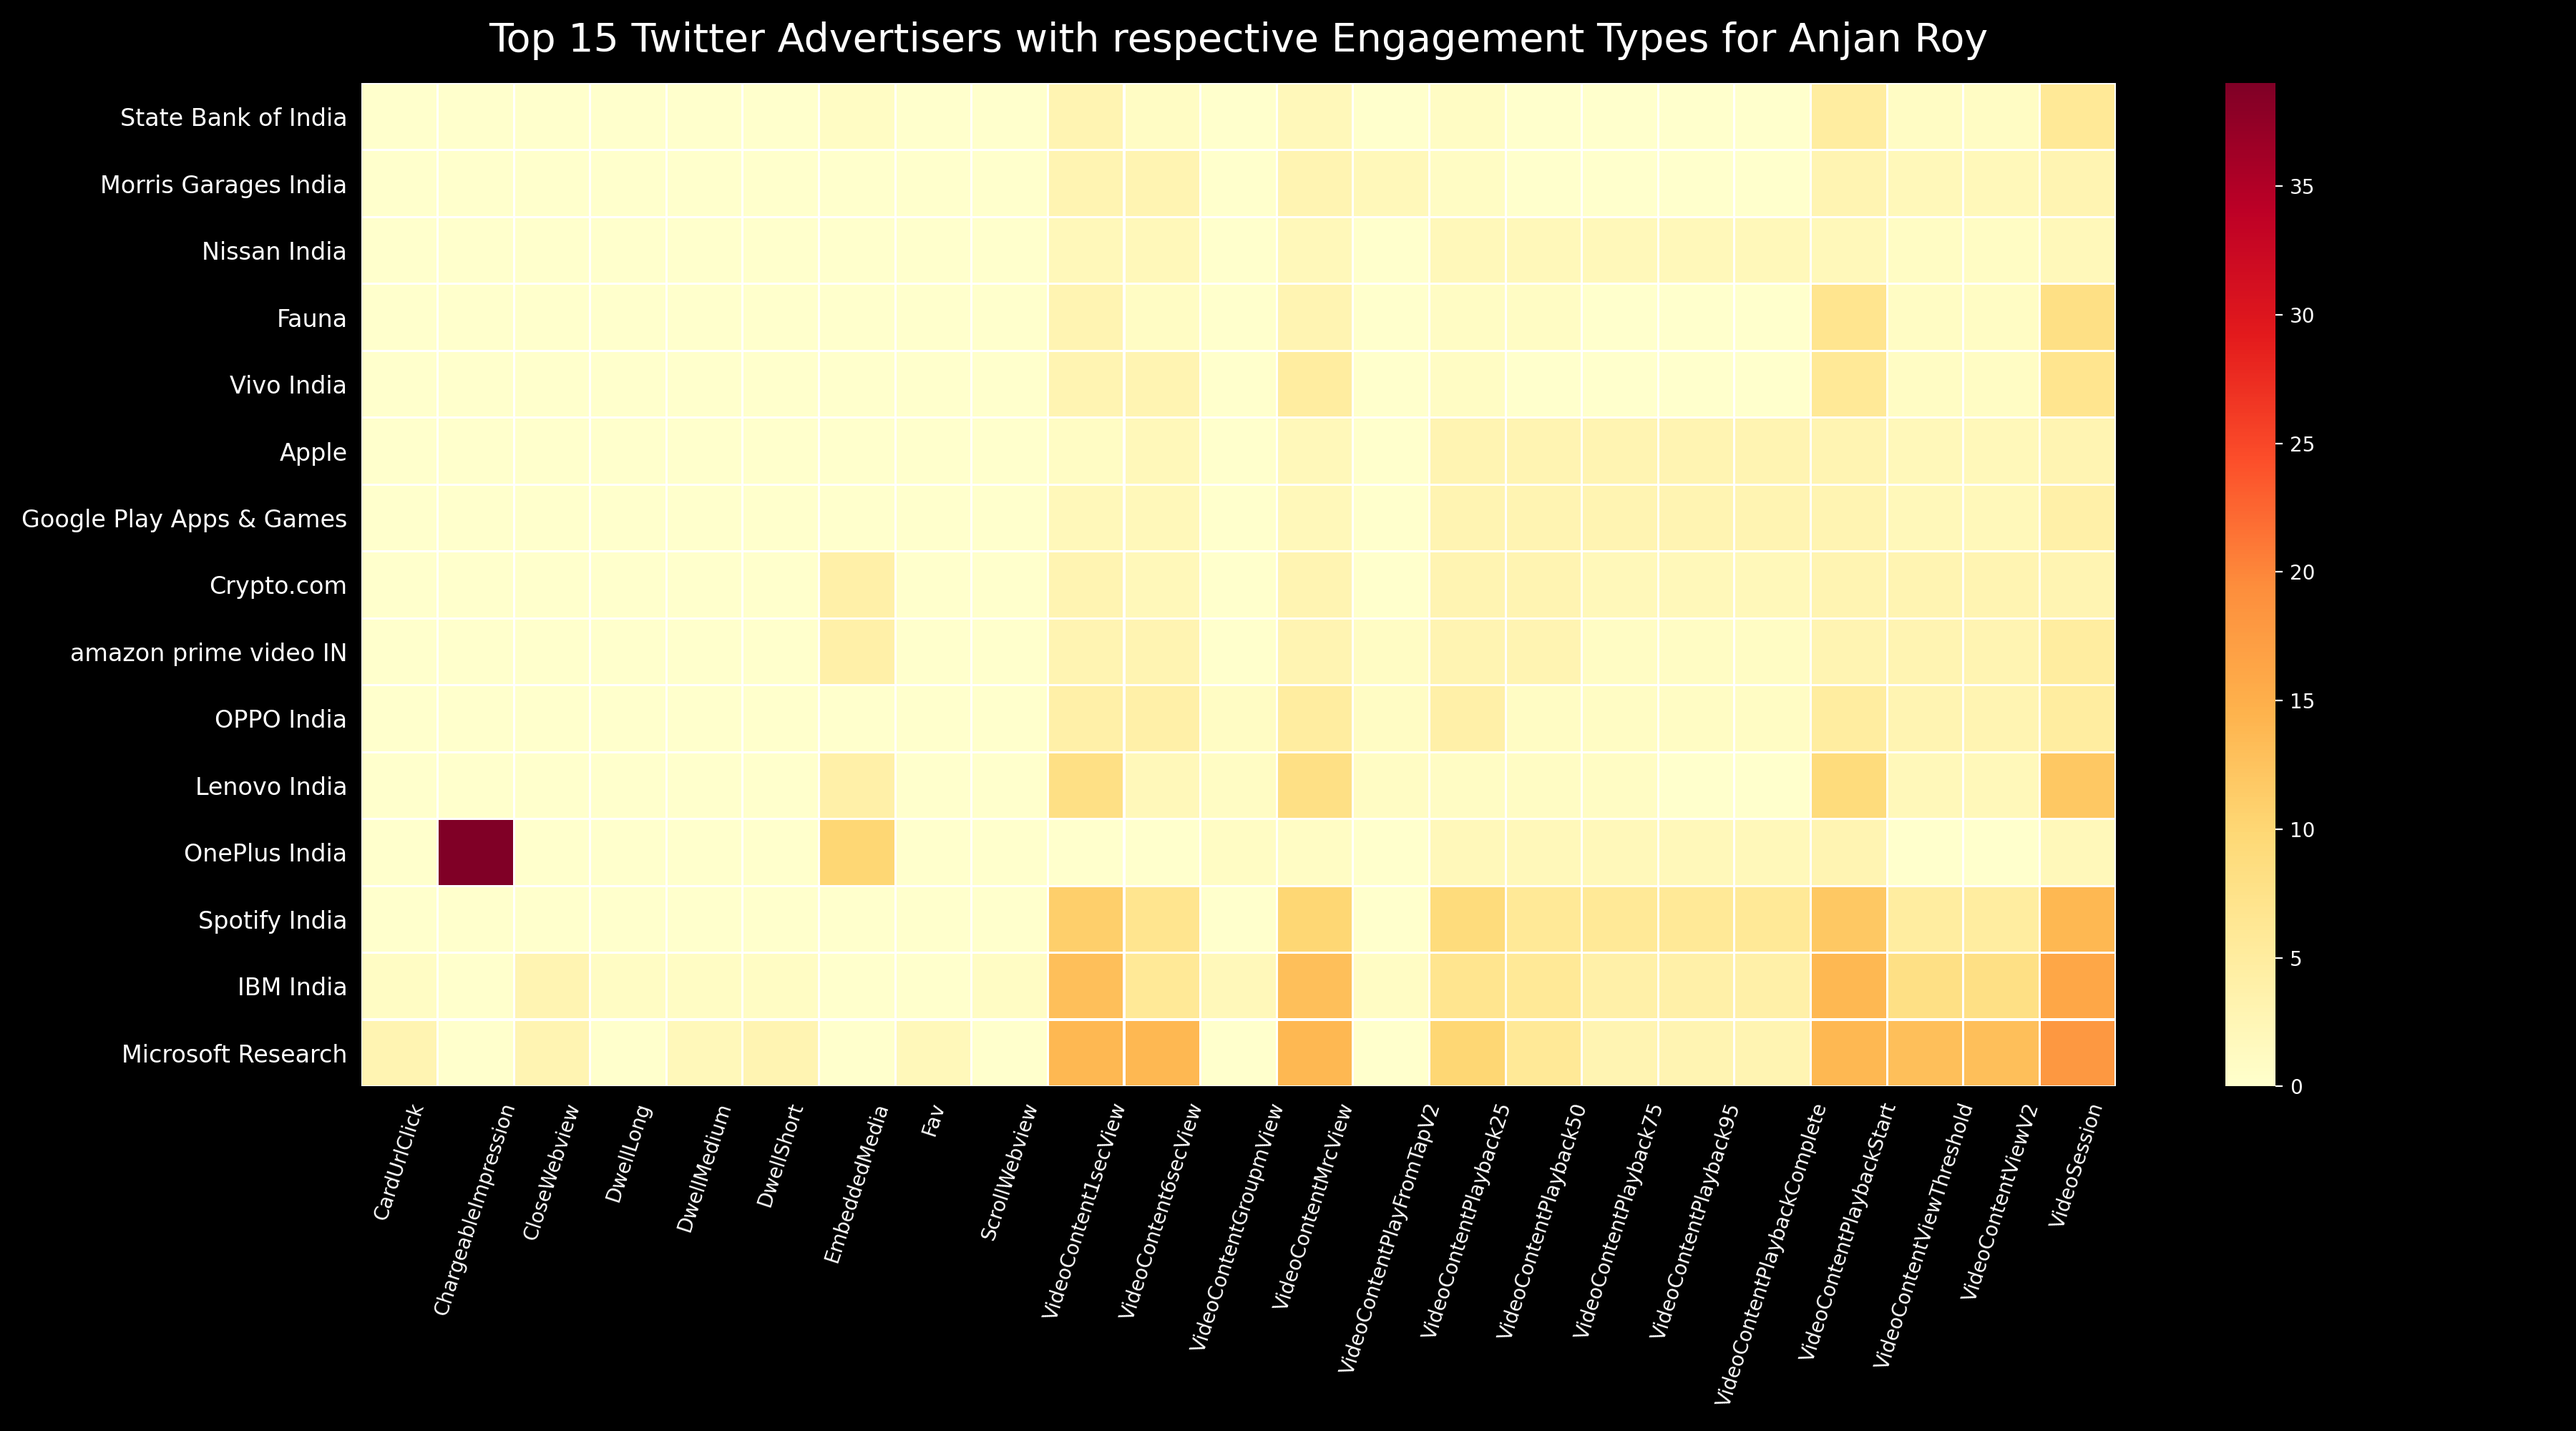
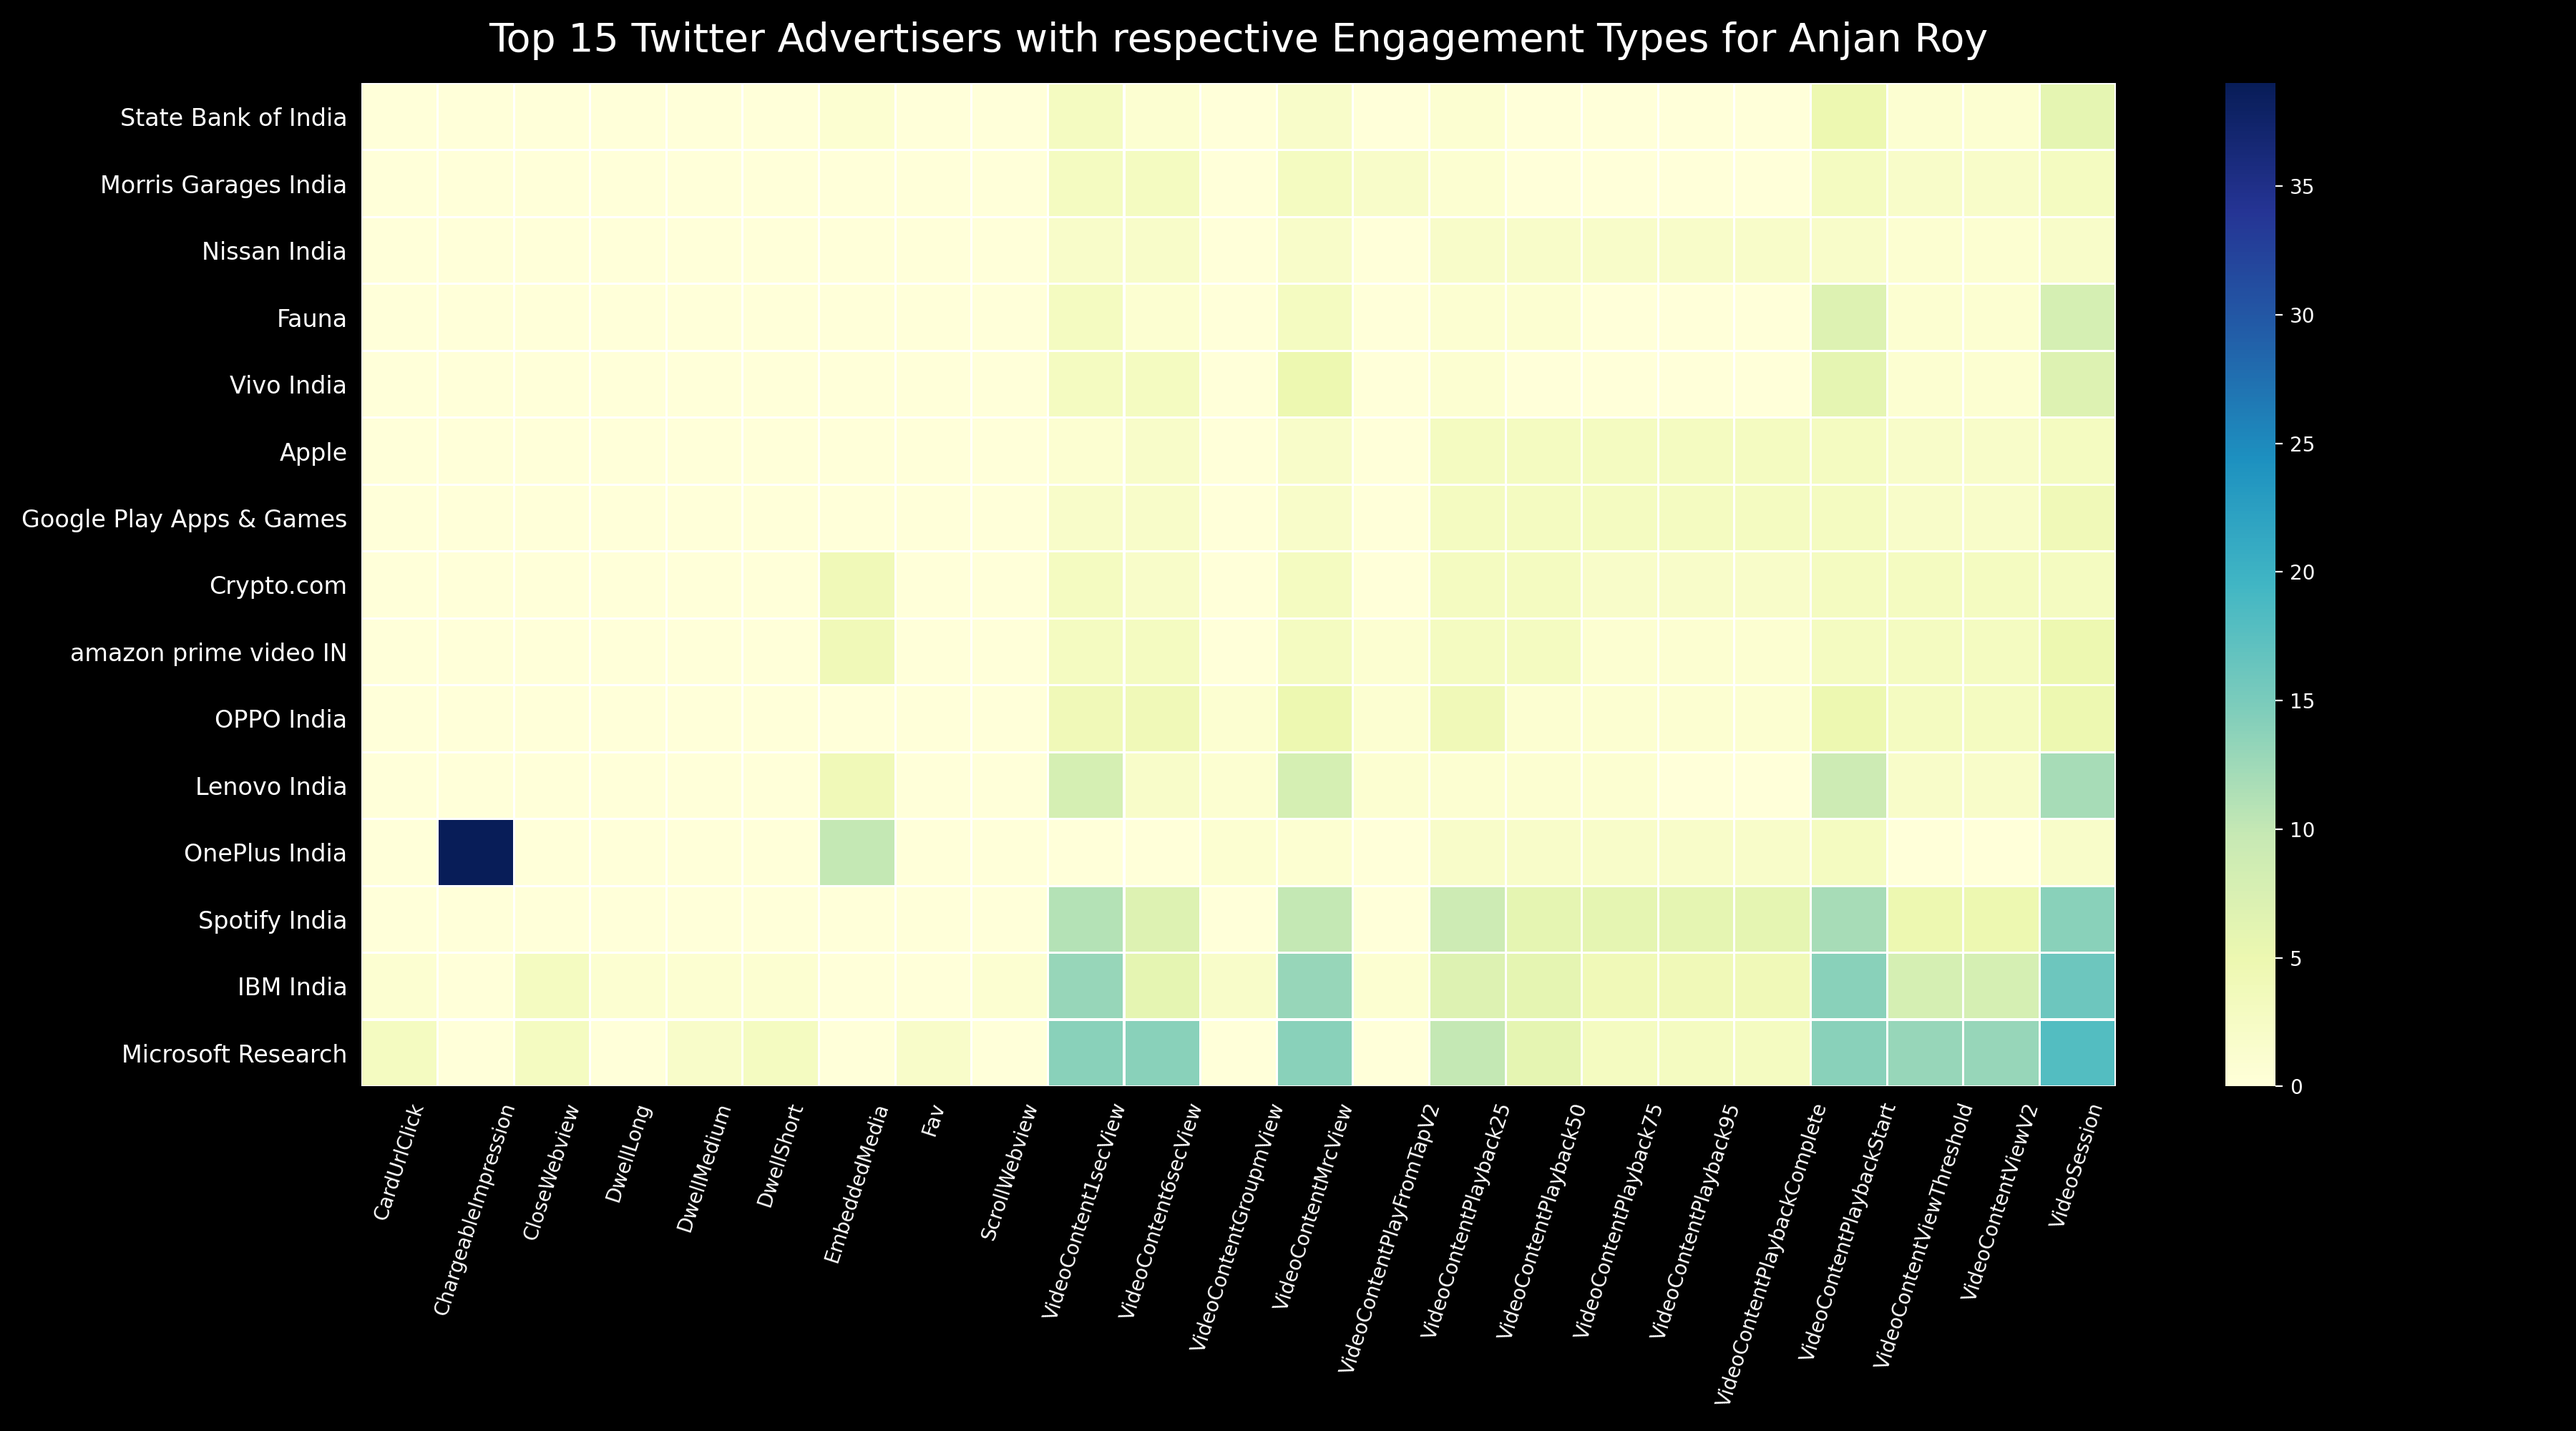
just heat map color map

diff --git a/twiz/plot/ad/engagement/viz.py b/twiz/plot/ad/engagement/viz.py
@@ -219,7 +219,7 @@ def plotTopXAdvertisersAsHeatMap(data: Engagements, x: int, title: str, sink: st
             fig = plt.Figure(figsize=(18, 10), dpi=200)
 
             sns.heatmap(_data, lw=.75,
-                        cmap='YlOrRd', ax=fig.gca())
+                        cmap='YlGnBu', ax=fig.gca())
 
             fig.gca().set_xticklabels(_x, rotation=72)
             fig.gca().tick_params(axis='x', which='major', labelsize=10)
